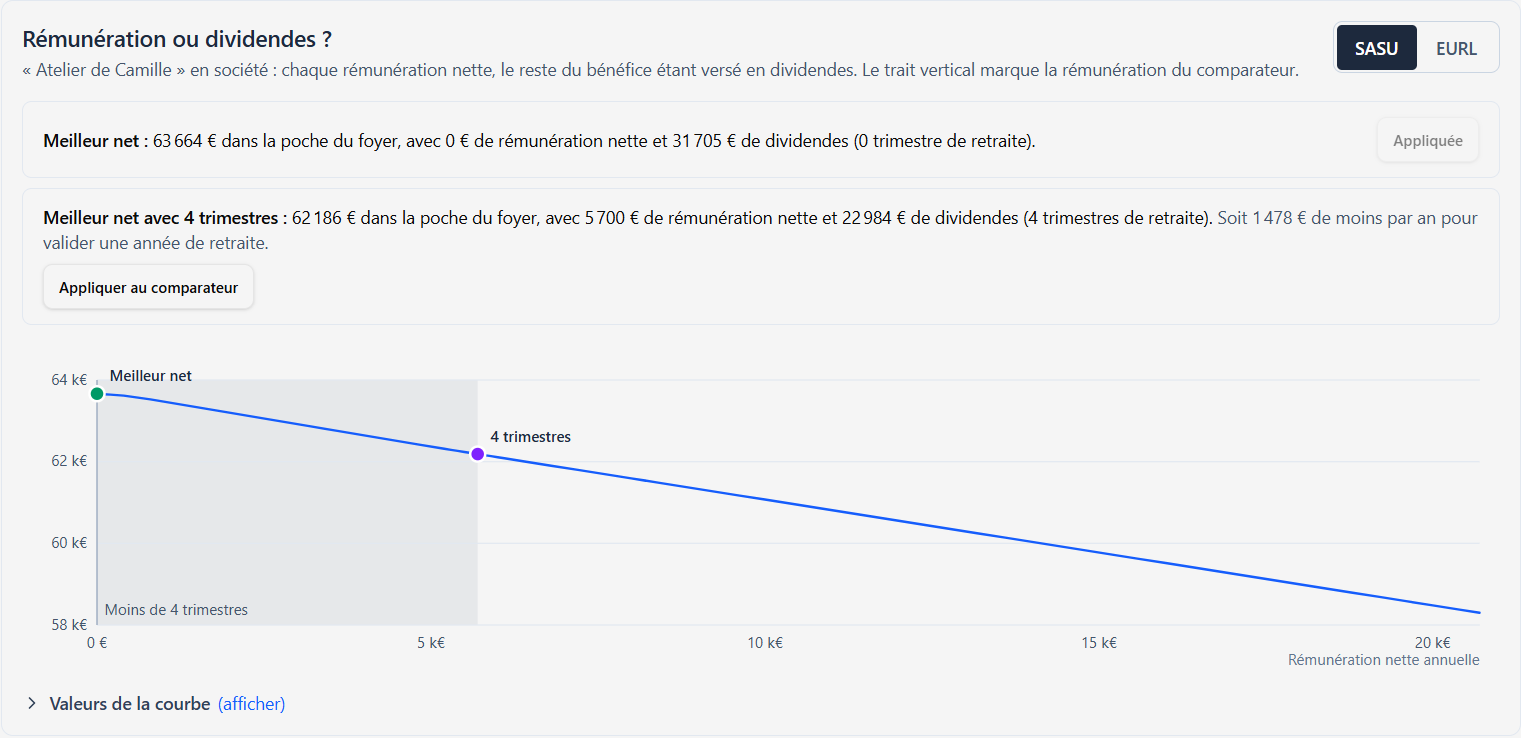
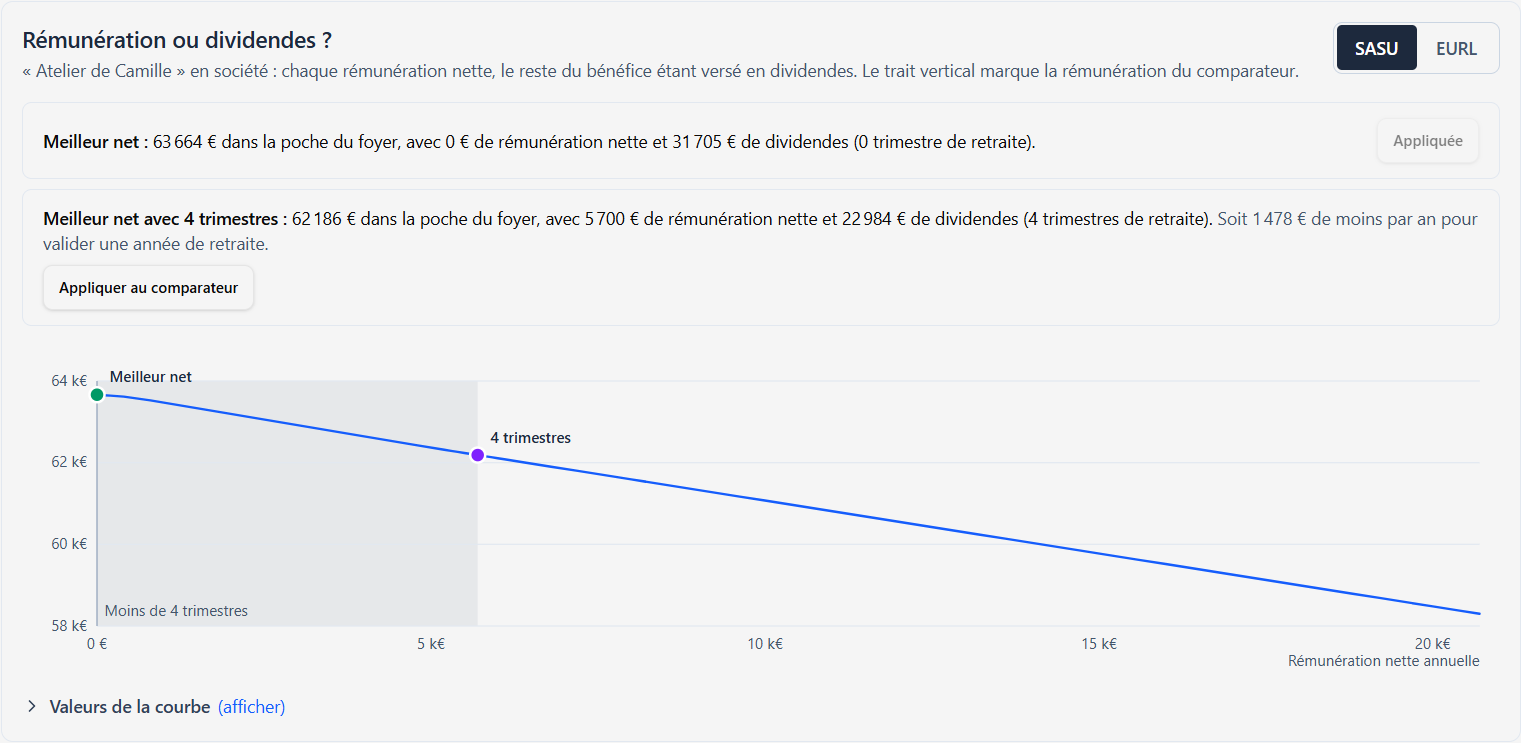
docs: Phase 10 terminée, captures aux nouvelles couleurs
La feuille de route et la section Qualité du README décrivent l'audit
d'accessibilité et ses tests ; captures regénérées après les corrections de
contraste.

diff --git a/Roadmap.md b/Roadmap.md
@@ -4,7 +4,7 @@
 
 ## **État Actuel du Projet**
 
-Le socle (graphe d'entités, grille visuelle, persistance validée par Zod), les tests automatisés avec intégration continue, le moteur de simulation par foyer fiscal, le comparateur de statuts et l'arbitrage rémunération / dividendes sont en place, avec une démo web publiée sur GitHub Pages. La prochaine étape est l'**accessibilité** (Phase 10).
+Le socle (graphe d'entités, grille visuelle, persistance validée par Zod), les tests automatisés avec intégration continue, le moteur de simulation par foyer fiscal, le comparateur de statuts et l'arbitrage rémunération / dividendes sont en place, avec une démo web publiée sur GitHub Pages. L'accessibilité (WCAG 2.2 AA) est vérifiée automatiquement. La prochaine étape est l'**export des chiffres** (Phase 11).
 
 > **Changement d'ordre par rapport à la v2.2 :** le comparateur de statuts passe avant l'arbitrage rémunération / dividendes, et la gestion des foyers fiscaux est intégrée à la refonte du moteur.
 
@@ -118,7 +118,7 @@ Le socle (graphe d'entités, grille visuelle, persistance validée par Zod), les
 
 ---
 
-### **Phase 10 : Accessibilité (RGAA / WCAG 2.2 AA) [Planifié 🗓]**
+### **Phase 10 : Accessibilité (RGAA / WCAG 2.2 AA) [Terminé ✅]**
 
 - **Objectif :** une application utilisable par tous, sur ordinateur comme sur téléphone, vérifiée automatiquement. Le RGAA reprend les WCAG 2.1 AA ; on vise les WCAG 2.2 AA, qui les incluent.
 
@@ -127,6 +127,9 @@ Le socle (graphe d'entités, grille visuelle, persistance validée par Zod), les
 3.  **Taille du texte :** pas de texte sous 12 px, 14 px pour le texte courant ; vérification par un test. Tout reste utilisable avec le texte agrandi à 200 % (critère 1.4.4).
 4.  **Clavier et focus :** tout le parcours au clavier (grille, fenêtres, glisser-déposer avec une alternative), focus toujours visible, ordre de tabulation logique.
 5.  **Préférences du système :** animations réduites (`prefers-reduced-motion`), contrastes renforcés (`forced-colors`).
+6.  **Curseur :** main sur tout élément cliquable, « interdit » sur les éléments désactivés.
+
+- **Réalisé :** audit axe-core (WCAG 2.2 AA) de la démo web dans plusieurs états (chargement, comparateur déplié, mode sombre, téléphone, les six fenêtres) et de l'application de bureau, bloquant en CI ; contrastes corrigés (gris, rouge, montants de la grille, initiales des avatars choisies en blanc ou en foncé selon la couleur) ; zones cliquables d'au moins 24 px, 44 px sur écran tactile ; textes d'au moins 12 px, 14 px pour les phrases ; lien d'évitement, focus visible partout, réorganisation des listes au clavier (Espace, flèches, Espace) avec annonces en français ; animations réduites et mode contraste élevé de Windows. Tests dédiés : `e2e-web/accessibilite`, `cibles`, `textes`, `clavier` et `curseurs`.
 
 ---
 

diff --git a/README.md b/README.md
@@ -104,6 +104,7 @@ npm run test:mutation  # tests de mutation (Stryker), rapport dans reports/mutat
 - **Tests de composants** : fichiers `*.test.tsx` (React Testing Library, user-event, jsdom) qui rejouent les parcours de saisie au clavier, la fenêtre des flux, les cartes d'entités, les résultats et l'historique d'annulation ; `window.api` y est simulé (`src/ui/testing/`).
 - **Tests de bout en bout** (optionnels) : fichiers `e2e/*.e2e.ts`, où Playwright pilote l'application Electron compilée (création d'entités, saisie dans la grille, résultats, historique, sauvegarde automatique, conversion d'un ancien format, sauvegardes nommées). Chaque test lance l'application sur un dossier de données temporaire (`--user-data-dir`), sans toucher aux vraies données ; aucun navigateur à télécharger. En intégration continue, ils tournent sur `main` et à la demande.
 - **Démo web** : `e2e-web/*.web.ts` ouvre la version navigateur compilée dans Chromium (simulation d'exemple, calculs, conservation des modifications, retour à l'exemple). Elle nécessite une fois `npx playwright install chromium`. À chaque push sur `main`, la CI la teste puis la publie sur GitHub Pages.
+- **Accessibilité (WCAG 2.2 AA, qui couvre le RGAA)** : audit axe-core de la démo web et de l'application dans les tests de bout en bout (chargement, comparateur déplié, mode sombre, téléphone, fenêtres), bloquant en CI ; tests dédiés des zones cliquables (24 px, 44 px sur écran tactile), des tailles de texte (12 px au moins, 14 px pour les phrases), du parcours au clavier avec focus visible et du curseur.
 - **Couverture** : seuil bloquant de 90 % (instructions, branches, fonctions, lignes) sur `src/backend/logic/` et `src/lib/`.
 - **Complexité** : règle ESLint `complexity` plafonnée à 15 sur `src/`, sans exception.
 - **Mutation** : Stryker sur `src/backend/logic/` (score d'environ 86 %), lancé chaque semaine et à la demande ; nécessite Node.js 22 ou supérieur.
